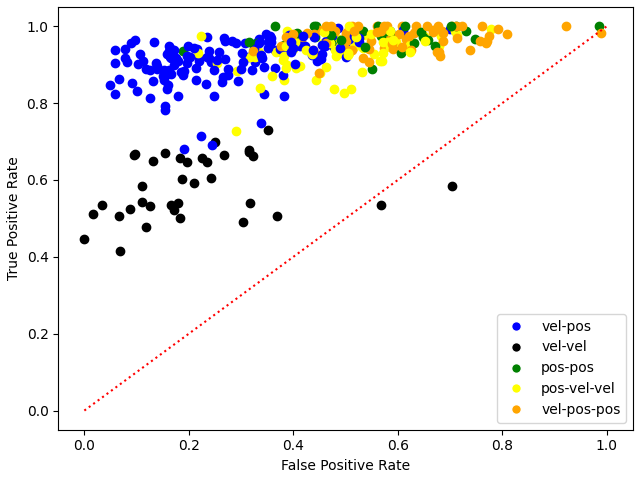
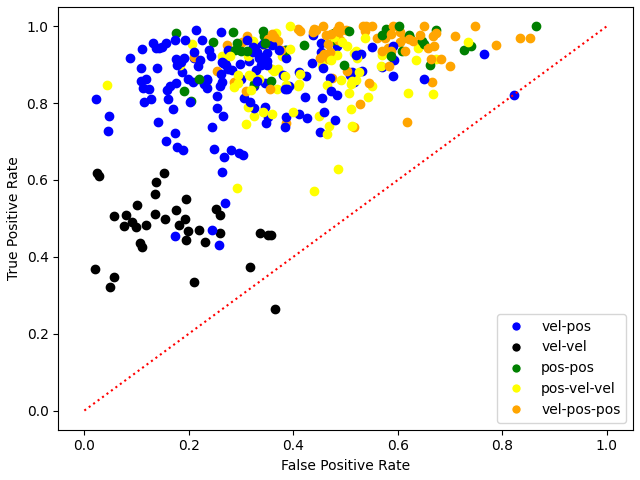
-

diff --git a/run_climbing_classifier.py b/run_climbing_classifier.py
@@ -6,12 +6,12 @@ from scipy.signal import find_peaks
 data = pickle_open('Data/simulation_data')
 primitive_list = pickle_open('Data/primitive_list')
 parameters = Parameters(t_total=20, dt=0.001)
+N_simulations = 8
+N_simulations_test = 2
+N_plot = 1
 
-N_simulations = 2
-sim = 0
-
-pitch = np.empty((parameters.general['N_steps'], N_simulations))
-for i in range(N_simulations):
+pitch = np.empty((parameters.general['N_steps'], N_simulations + N_simulations_test))
+for i in range(N_simulations + N_simulations_test):
     pitch_single = np.array(data[f'simulation_{i}'][2][1, :])
     pitch_single = pitch_single[:parameters.general['N_frames']]
     pitch[:, i] = interpolate(pitch_single, parameters.general['t_total'], parameters.general['N_steps'])
@@ -23,68 +23,92 @@ N_bins = 2
 N_spikes = np.zeros(360)
 weights = np.zeros(360)
 
-for j in range(360):
-    bin, bin_2 = np.zeros(N_bins), np.zeros(60)
-    bin_pitch = np.zeros(N_bins)
-    for i in range(N_simulations):
-        spike_primitive = primitive_list[i]
-        spike_train = spike_primitive[:, j]
-        incidence = spike_train*pitch[:, i]
-        incidence[incidence == 0] = np.nan
-        bin += np.histogram(incidence, bins=N_bins, range=(pitch_min, pitch_max))[0]
-        bin_2 += np.histogram(incidence, bins=60, range=(pitch_min, pitch_max))[0]
-        bin_pitch += np.histogram(pitch[:, i], bins=N_bins, range=(pitch_min, pitch_max))[0]
+w_1_list = np.linspace(0.9E-3, 1.4E-3, num=12)
+w_2_list = np.linspace(0E-3, -1E-3, num=3)
+accuracy_list = np.zeros((w_2_list.size, w_1_list.size))
 
-    ratio = bin[1]/bin[0]
+for l in tqdm(range(w_2_list.size)):
+    for m in range(w_1_list.size):
+        weights = np.zeros(360)
+        for j in range(360):
+            bin, bin_2 = np.zeros(N_bins), np.zeros(60)
+            bin_pitch = np.zeros(N_bins)
+            for i in range(N_simulations):
+                spike_primitive = primitive_list[i]
+                spike_train = spike_primitive[:, j]
+                incidence = spike_train*pitch[:, i]
+                incidence[incidence == 0] = np.nan
+                bin += np.histogram(incidence, bins=N_bins, range=(pitch_min, pitch_max))[0]
+                bin_2 += np.histogram(incidence, bins=60, range=(pitch_min, pitch_max))[0]
+                bin_pitch += np.histogram(pitch[:, i], bins=N_bins, range=(pitch_min, pitch_max))[0]
 
-    if ratio > 1.5:
-        weights[j] = 0.3E-3
+            ratio = bin[1]/bin[0]
 
-parameters.posture['w'] = weights.T
-posture_neuron = define_and_initialize(LIF_primitive, parameters.posture)
-spike_posture, time = np.empty((parameters.general['N_steps'], N_simulations)), np.zeros(parameters.general['N_steps'])
+            if ratio > 1.5:
+                weights[j] = w_1_list[m]
 
-for j in range(N_simulations):
-    spike_primitive = primitive_list[j]
-    for i in tqdm(range(parameters.general['N_steps'])):
-        time[i] = i * parameters.general['dt']
-        _, spike_posture[i, j] = posture_neuron.forward(torch.from_numpy(spike_primitive[i, :]))
+            if ratio < 1/1.5:
+                weights[j] = w_2_list[l]
 
-n_bins = 50
+        parameters.posture['w'] = weights.T
+        posture_neuron = define_and_initialize(LIF_primitive, parameters.posture)
+        spike_posture, time = np.empty((parameters.general['N_steps'], N_simulations_test)), np.zeros(parameters.general['N_steps'])
 
-pitch_binary = np.zeros(pitch.shape)
-pitch_binary[pitch > pitch_middle] = 1
+        for j in range(N_simulations_test):
+            spike_primitive = primitive_list[j+N_simulations]
+            for i in range(parameters.general['N_steps']):
+                time[i] = i * parameters.general['dt']
+                _, spike_posture[i, j] = posture_neuron.forward(torch.from_numpy(spike_primitive[i, :]))
 
-pitch_binned = convert_to_bins(pitch_binary, n_bins)
+        n_bins = 50
 
-spike_posture_binned = convert_to_bins(spike_posture, n_bins)
+        pitch_binary = np.zeros(pitch.shape)
+        pitch_binary[pitch > pitch_middle] = 1
 
-intersection = pitch_binned + spike_posture_binned
-difference = pitch_binned - spike_posture_binned
+        pitch_binned = convert_to_bins(pitch_binary, n_bins)
 
-true_positive = intersection[intersection > 1.5].size
-true_negative = intersection[intersection < 0.5].size
-false_positive = difference[difference < -0.5].size
-false_negative = difference[difference > 0.5].size
+        spike_posture_binned = convert_to_bins(spike_posture, n_bins)
 
-TPR = true_positive/(true_positive+false_negative)
-FPR = false_positive/(false_positive+true_negative)
-ACC = (true_positive+true_negative)/(true_positive+true_negative+false_positive+false_negative)
+        intersection = pitch_binned[:, N_simulations:] + spike_posture_binned
+        difference = pitch_binned[:, N_simulations:] - spike_posture_binned
+
+        true_positive = intersection[intersection > 1.5].size
+        true_negative = intersection[intersection < 0.5].size
+        false_positive = difference[difference < -0.5].size
+        false_negative = difference[difference > 0.5].size
+
+        TPR = true_positive/(true_positive+false_negative)
+        FPR = false_positive/(false_positive+true_negative)
+        ACC = (true_positive+true_negative)/(true_positive+true_negative+false_positive+false_negative)
+
+        accuracy_list[l, m] = ACC
+
+print(accuracy_list)
+
+colors = ['#c1272d', '#0000a7', '#eecc16', '#008176', '#b3b3b3']
+
+for i in range(w_2_list.size):
+    plt.plot(w_1_list*1000, accuracy_list[i, :], label=f'w_2 = {w_2_list[i]*1000}', color=colors[i])
+
+plt.xlabel('w_1 (mV)')
+plt.ylabel('Accuracy')
+plt.plot()
+plt.legend()
 
 print(f'TPR: {TPR}, FPR: {FPR}, ACC: {ACC}')
 
 fig, ax = plt.subplots()
 
-ax.plot(time, pitch[:, sim], color='black', label='body pitch')
+ax.plot(time, pitch[:, N_simulations+N_plot], color='black', label='body pitch')
 ax.plot([time[0], time[-1]], [pitch_middle, pitch_middle], linestyle='dotted', color='red')
 
 spike_posture[spike_posture == 0] = np.nan
 x = np.linspace(0, 20, num=n_bins)
 x_dist = x[1]-x[0]
 
-ax.scatter(time, pitch[:, sim]*spike_posture[:, sim], color='blue', marker='^')
+ax.scatter(time, pitch[:, N_simulations+N_plot]*spike_posture[:, N_plot], color='blue', marker='^')
 for i in range(n_bins):
-    if spike_posture_binned[i, sim] == 1:
+    if spike_posture_binned[i, N_plot] == 1:
         ax.fill_between([x[i]-x_dist/2, x[i]+x_dist/2], -1000, 1000, alpha=0.3, color='grey')
 ax.set_ylim([-20, 75])
 ax.set_xlim([0, 20])
@@ -93,5 +117,8 @@ ax.set_xlabel("Time [s]")
 ax.set_ylabel("Body Pitch [°]")
 
 plt.show()
+
+#spike_primitive[spike_primitive == 0] = np.nan
+
 
 

diff --git a/run_position_optimization.py b/run_position_optimization.py
@@ -13,16 +13,16 @@ joint_angles_list = pickle_open('Data/joint_angles_list')
 n_grid = 4
 noises = [0.01, 0.05, 0.10]
 n = 100
-skip = 10
+skip = 1
 
-parameters = Parameters(t_total=6, dt=0.0001, n_hairs=20)
+parameters = Parameters(t_total=5, dt=0.0003, n_hairs=20)
 x = np.linspace(0, parameters.general['t_total'], num=parameters.general['N_steps'])
-d, d_noise = np.empty((18, len(position_list), n_grid, n_grid)), np.empty((18, len(position_list), 3))
-b_list = np.linspace(10e-3, 40e-3, num=n_grid)
-tau_w_list = np.linspace(10e-3, 25e-3, num=n_grid)
+d, d_noise = np.zeros((18, len(position_list), n_grid, n_grid)), np.zeros((18, len(position_list), 3))
+b_list = np.linspace(10e-3, 25e-3, num=n_grid)
+tau_w_list = np.linspace(10e-3, 40e-3, num=n_grid)
 euclidean_norm = lambda x, y: np.abs(x - y)
 
-for j in tqdm(range(len(position_list))):
+for j in tqdm(range(2)):
     joint_angles = joint_angles_list[j]
     spike_sensory = sensory_list[j]
     spike_position = np.zeros((parameters.general['N_steps'], 36))
@@ -46,8 +46,11 @@ for j in tqdm(range(len(position_list))):
                 firing_rate_1, spikes_index_1 = get_firing_rate(spike_position[:, 2*i], parameters.general['dt'])
                 firing_rate_2, spikes_index_2 = get_firing_rate(spike_position[:, 2*i+1], parameters.general['dt'])
 
-                func1 = interpolate.interp1d(x[spikes_index_1], firing_rate_1)
-                func2 = interpolate.interp1d(x[spikes_index_2], firing_rate_2)
+                try:
+                    func1 = interpolate.interp1d(x[spikes_index_1], firing_rate_1)
+                    func2 = interpolate.interp1d(x[spikes_index_2], firing_rate_2)
+                except:
+                    print(f'Skipped, no spikes')
 
                 combined_firing_rate = np.zeros(x.shape)
                 combined_firing_rate[spikes_index_1[0]:spikes_index_1[-1]] -= func1(x[spikes_index_1[0]:spikes_index_1[-1]])
@@ -70,7 +73,6 @@ for j in tqdm(range(len(position_list))):
             joint_angle_noise = joint_angle[::n]+np.random.normal(0, np.std(joint_angle[::n])*noises[k], joint_angle[::n].size)
             d_noise[i, j, k], _, _, _ = dtw(joint_angle[::n], joint_angle_noise, dist=euclidean_norm)
 
-
 d_average, d_average_noise = np.mean(d, axis=0), np.mean(d_noise, axis=0)
 d_average, d_average_noise = np.mean(d_average, axis=0), np.mean(d_average_noise, axis=0)
 
@@ -81,37 +83,37 @@ pickle_save([d_average, d_std, d_average_noise, d_std_noise], 'Data/temp_d')
 
 
 d_average, d_std, d_average_noise, d_std_noise = pickle_open('Data/temp_d')
-print(d_average, d_std)
-print(d_average_noise, d_std_noise)
+
 matplotlib.rc('xtick', labelsize=10)
-matplotlib.rc('ytick', labelsize=10)
-yticks = ['start']
+matplotlib.rc('ytick', labelsize=6.5)
+yticks = []
 fig, ax = plt.subplots(figsize=(1.5*3.54, 3.54), dpi=600)
 
 for i in range(d_average_noise.size):
-    ax.errorbar(d_average_noise[i]/1000, i, xerr=d_std_noise[i]/1000, fmt='o', color='black', capsize=3)
+    ax.errorbar(d_average_noise[i], i, xerr=d_std_noise[i], fmt='o', color='black', capsize=3)
     yticks.append(f'noise = {noises[i]}%')
     print(f'noise = {noises[i]}')
 
 i = 0
 for l in range(b_list.size):
     for m in range(tau_w_list.size):
-        ax.errorbar(d_average[l, m]/1000, i+3, xerr=d_std[l, m]/1000, fmt='o', color='black', capsize=3)
+        ax.errorbar(d_average[l, m], i+3, xerr=d_std[l, m], fmt='o', color='black', capsize=3)
         yticks.append(f'tau={tau_w_list[m]*1000}ms, b={b_list[l]*1000}mV')
         i += 1
+ax.set_yticks(range(i+3))
 ax.set_yticklabels(yticks)
 ax.set_xlabel('DTW Score', fontsize=15)
 fig.tight_layout(pad=0.5)
 
 fig.savefig('Images/DTW_plot', bbox_inches='tight')
 
+fig2, ax2 = plt.subplots(figsize=(1.5*3.54, 3.54), dpi=600)
 
-
-'''
 for i in np.arange(len(path[0]))[::skip]:
-    plt.plot([x_plot[::n][path[0][i]], x_plot[::n][path[1][i]]], [combined_firing_rate[::n][path[0][i]], joint_angle[::n][path[1][i]]], color='grey', alpha=0.7)
+    ax2.plot([x_plot[::n][path[0][i]], x_plot[::n][path[1][i]]], [combined_firing_rate[::n][path[0][i]], joint_angle[::n][path[1][i]]], color='grey', alpha=0.7)
 
-plt.plot(x_plot, combined_firing_rate, color='red')
-plt.plot(x_plot, joint_angle, color='blue')
-plt.show()
-'''
+ax2.plot(x_plot, combined_firing_rate, color='red')
+ax2.plot(x_plot, joint_angle[minimum:maximum], color='blue')
+ax2.set_xlabel('time (s)', fontsize=15)
+ax2.set_ylabel('joint angle (degrees)', fontsize=15)
+fig2.savefig('Images/DTW_path', bbox_inches='tight')

diff --git a/dictionaries.py b/dictionaries.py
@@ -24,5 +24,5 @@ class Parameters:
         self.primitive = {'tau': 50e-3, 'V_T': -50e-3, 'V_R': -70e-3, 'n': 360, 'w': 0,
                           'N_input': 3, 'dt': dt, 'refrac': 0}
 
-        self.posture = {'tau': 50e-3, 'V_T': -50e-3, 'V_R': -70e-3, 'n': 1, 'w': 0,
+        self.posture = {'tau': 5e-3, 'V_T': -50e-3, 'V_R': -70e-3, 'n': 1, 'w': 0,
                           'N_input': 360, 'dt': dt, 'refrac': 0}

diff --git a/run_full_network.py b/run_full_network.py
@@ -7,7 +7,7 @@ from class_hair_field import HairField
 from plots import *
 from functions import *
 
-N_simulations = 2
+N_simulations = 10
 w_pos = [14e-3, 0, 12e-3, 10e-3, 7.5e-3]
 w_vel = [12e-3, 14.5e-3, 0, 11e-3, 12e-3]
 _, synapse_type, weights_primitive, primitive_filter_2, primitive_filter = get_encoding(w_pos, w_vel)

diff --git a/run_primitive_optimization.py b/run_primitive_optimization.py
@@ -11,7 +11,7 @@ parameters = Parameters(t_total=6, dt=0.0003)
 N_simulations = len(velocity_list)
 permutations = get_primitive_indexes(6)
 
-tau_list = np.linspace(1e-3, 30e-3, num=11)
+tau_list = np.linspace(1e-3, 15e-3, num=11)
 n_w = 7
 w_1 = np.linspace(1e-3, 19e-3, num=n_w)
 w_2 = np.linspace(1e-3, 19e-3, num=n_w)

diff --git a/Test_4.py b/Test_4.py
@@ -1,0 +1,6 @@
+import numpy as np
+
+
+a = np.full((2, 3, 4), 1)
+b = np.sum(a, axis=0)
+print(b)
